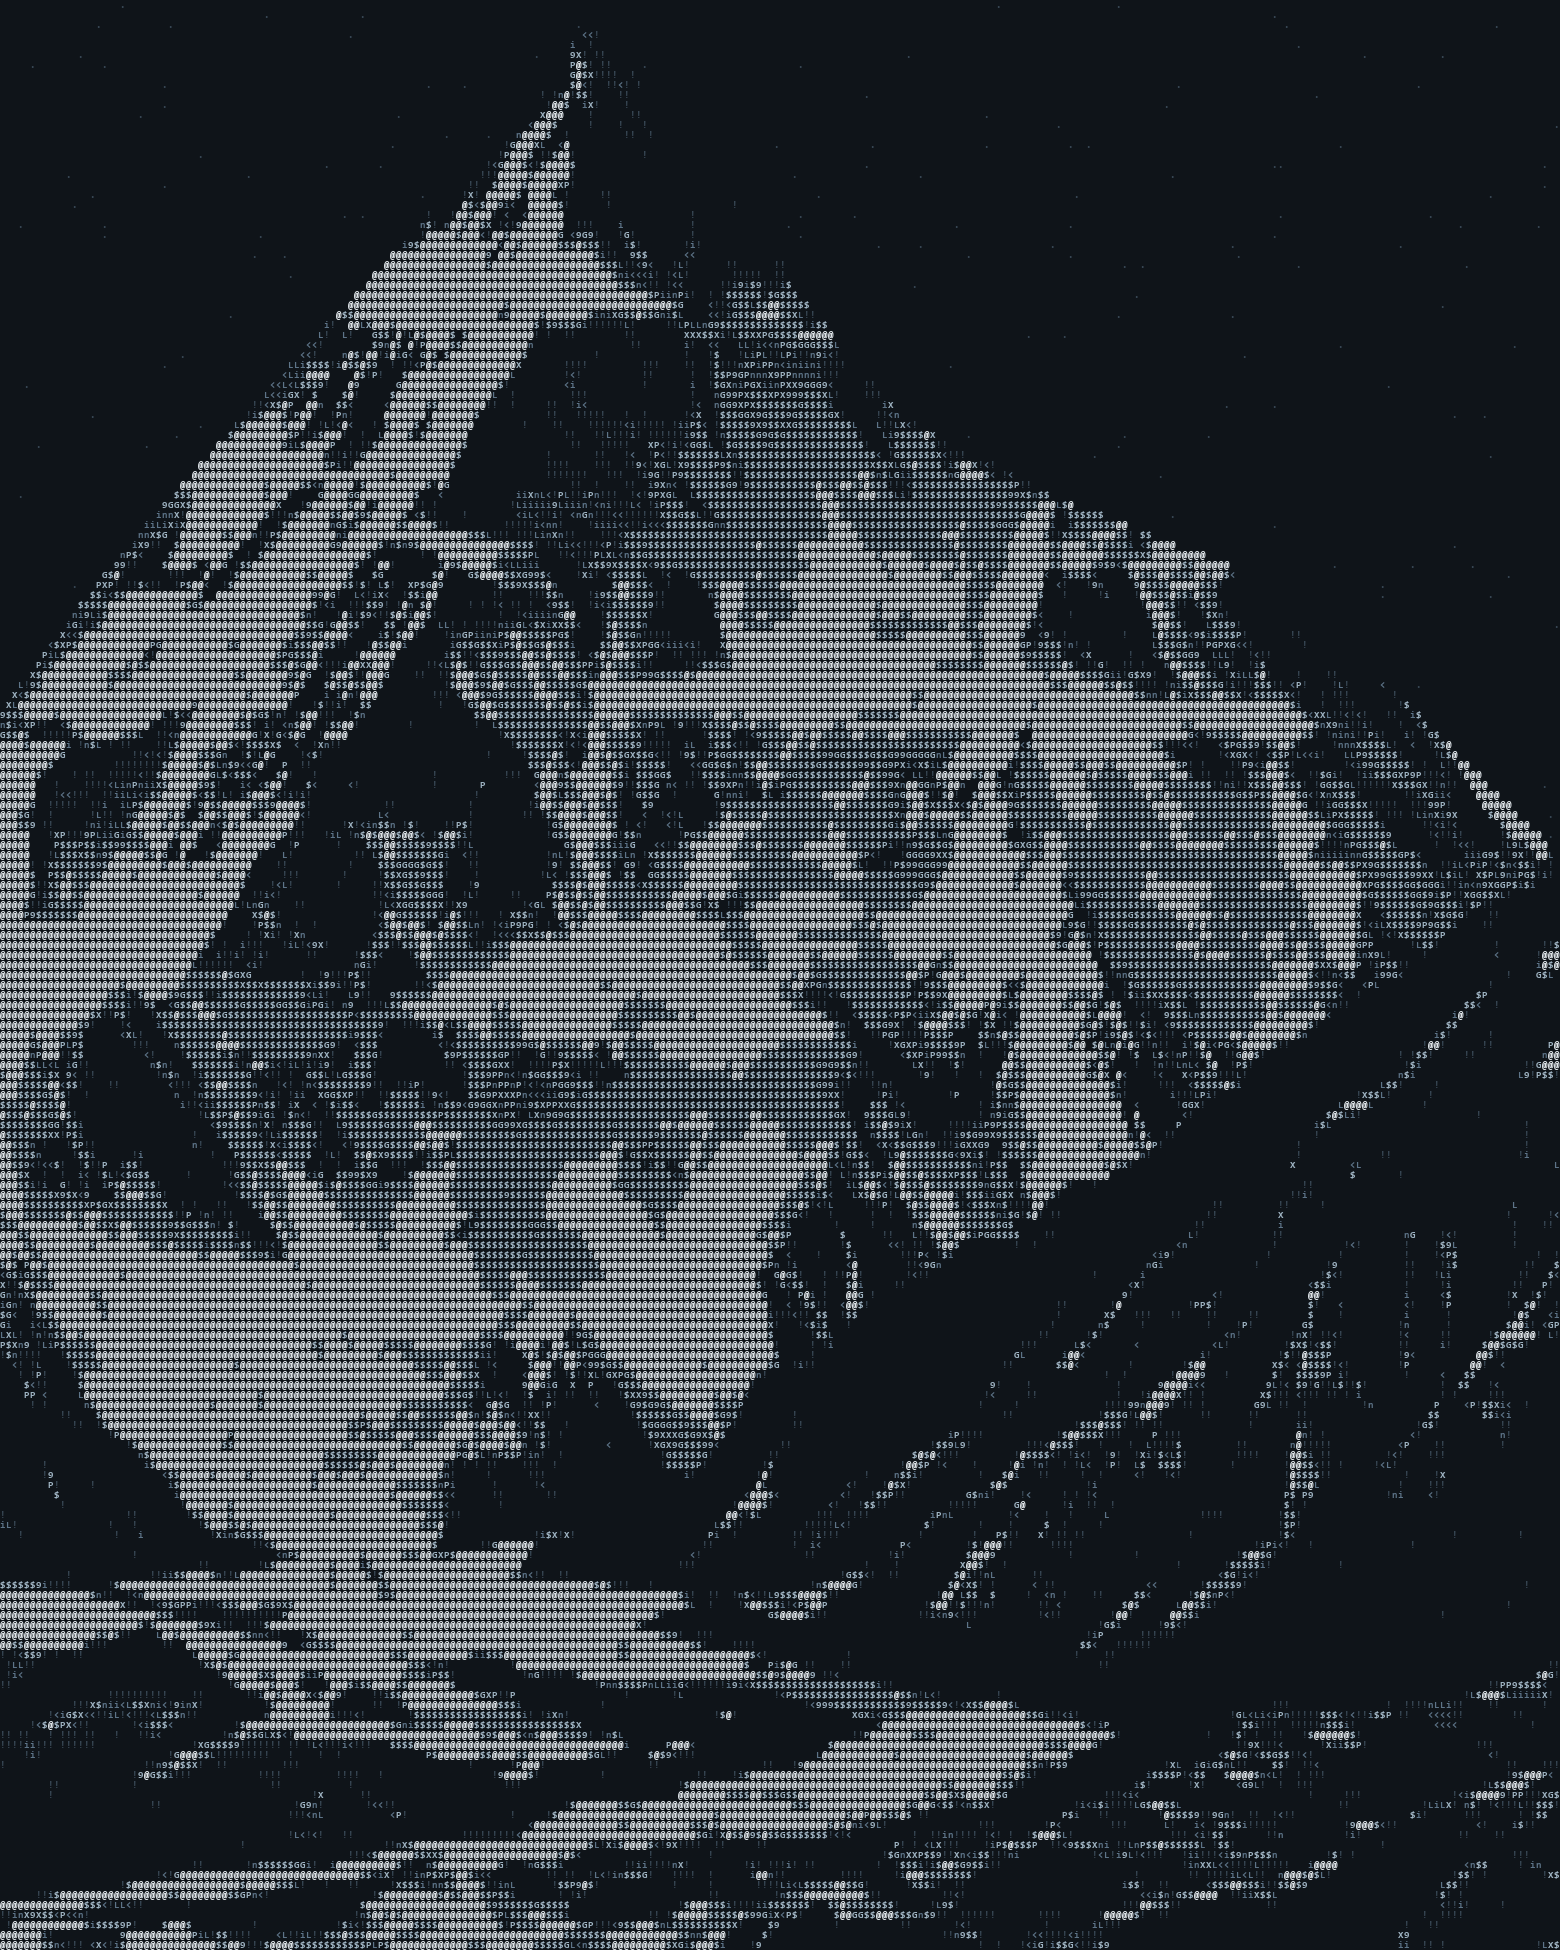
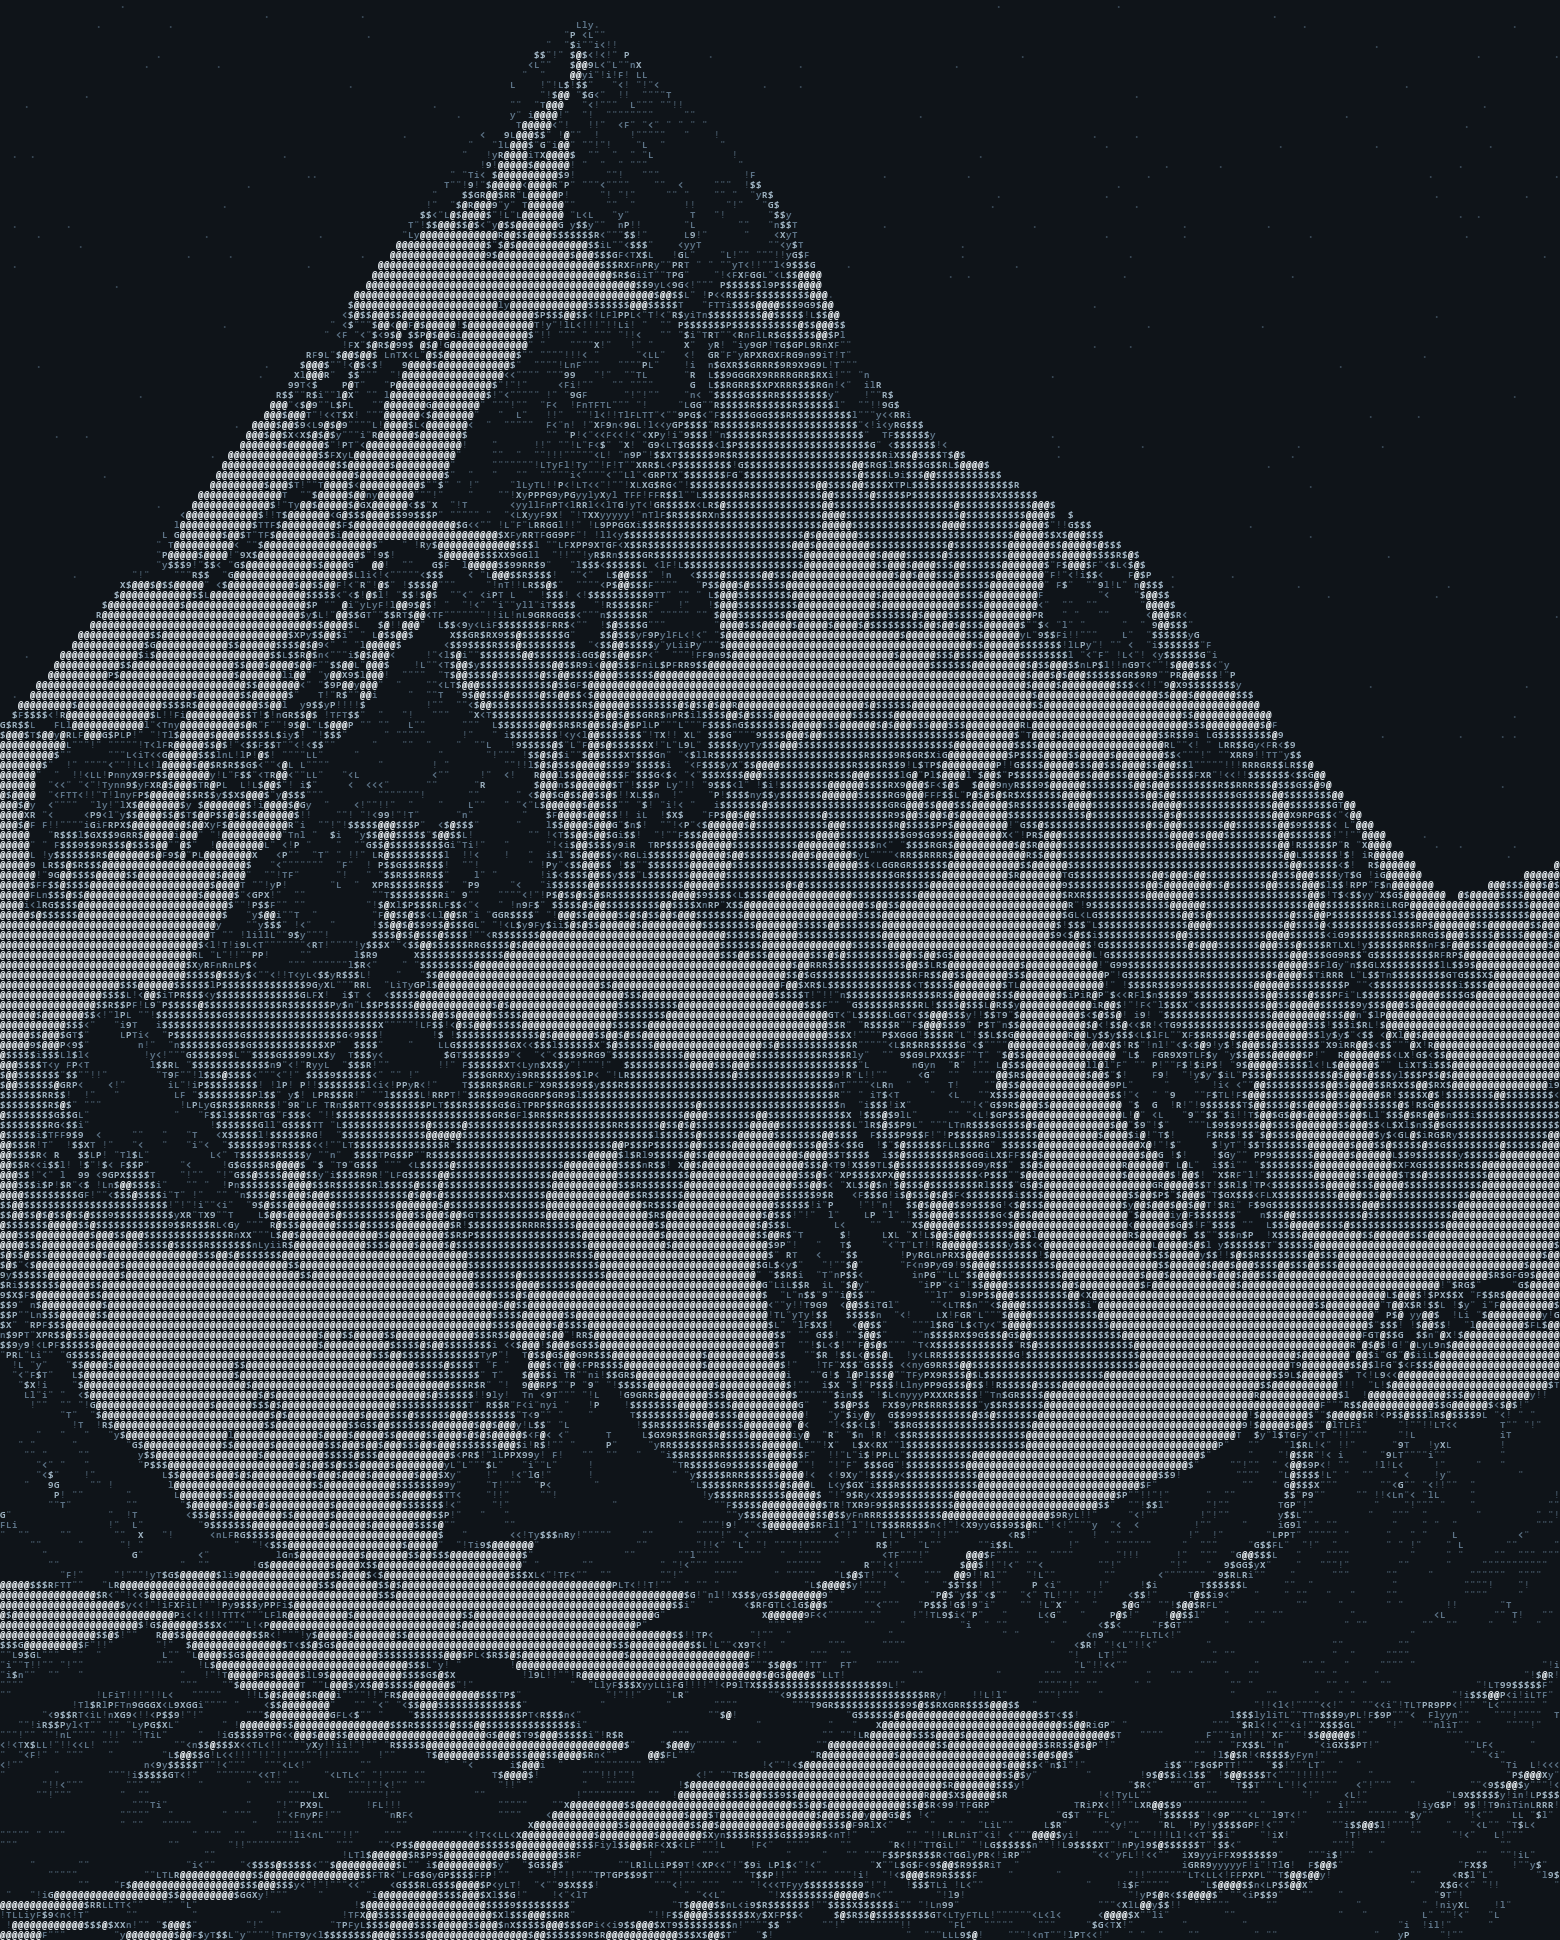
feat(profile): redraw K2 art without the foreground ridge, summit first in camps

diff --git a/.github/scripts/make_k2_ascii.py b/.github/scripts/make_k2_ascii.py
@@ -1,39 +1,29 @@
-"""One-off generator: shrinks the hand-made K2 ASCII art into a dark-theme version.
+"""One-off generator: turns the K2 drawing into a dark-theme ASCII picture.
 
-Reads the original (black ink on white, dense = dark), rebuilds its tone map, replaces the sky
-and clouds with a quiet starfield, inverts it for a dark background (dense = bright snow) and
-writes k2-ascii.txt and k2-ascii.png (the card embeds the PNG). Needs Pillow + numpy; the nightly card
-only reads the PNG.
-Usage: python make_k2_ascii.py montanha2_ascii.txt k2-ascii.txt k2-ascii.png
+Reads the drawing (dark ink on white), replaces the sky and clouds with a quiet starfield, inverts
+it for a dark background (dense character = bright snow) and writes k2-ascii.txt and k2-ascii.png.
+The card embeds the PNG. Needs Pillow + numpy; the nightly card only reads the PNG.
+Usage: python make_k2_ascii.py k2-source.jpg k2-ascii.txt k2-ascii.png
 """
 import sys
 
 import numpy as np
 from PIL import Image, ImageDraw
 
-COLS, ROWS = 260, 195
+COLS, ROWS = 260, 194
 FONT, SIZE = r"C:\Windows\Fonts\consolab.ttf", 10
-# Sky outline (x, y) on a 1040x1560 view of the source: everything above this line is replaced.
-SKY = [(1040, 0), (1040, 680), (940, 560), (820, 455), (700, 392), (600, 330), (530, 225), (515, 170),
-       (440, 80), (395, 22), (370, 40), (330, 110), (290, 160), (220, 250), (130, 370), (60, 470),
-       (0, 560), (0, 0)]
+SRC_W, SRC_H = 906, 1125
+# Sky outline (x, y) on the 906x1125 drawing: everything above this line is replaced.
+SKY = [(906, 0), (906, 500), (840, 520), (760, 440), (700, 370), (660, 320), (600, 285), (540, 250),
+       (500, 210), (460, 125), (420, 80), (340, 10), (310, 30), (260, 100), (230, 140), (190, 190),
+       (120, 280), (60, 350), (0, 420), (0, 0)]
 
 
 def load_tone(path):
-    """Ink darkness (0 light .. 1 dark) of each character of the source, as a rows x cols grid."""
-    from PIL import ImageFont
-    font = ImageFont.truetype(FONT, SIZE)
-    lines = open(path, encoding="utf-8").read().split(chr(10))
-    width = max(map(len, lines))
-    lines = [l.ljust(width) for l in lines]
-    cw = round(font.getlength("M"))
-    ink = {}
-    for c in set("".join(lines)):
-        im = Image.new("L", (cw, SIZE), 255)
-        ImageDraw.Draw(im).text((0, 0), c, font=font, fill=0)
-        ink[c] = 255 - np.asarray(im).mean()
-    a = np.array([[ink[c] for c in l] for l in lines])
-    return (a - a.min()) / (a.max() - a.min())
+    """Ink darkness (0 light .. 1 dark) of the drawing, as a grid at its native resolution."""
+    img = Image.open(path).convert("L")
+    assert img.size == (SRC_W, SRC_H), img.size
+    return 1 - np.asarray(img, dtype=np.float32) / 255.0
 
 
 def density_ramp(levels=18):
@@ -61,7 +51,7 @@ def shrink(grid):
 
 def sky_mask(h, w):
     img = Image.new("L", (w, h), 0)
-    ImageDraw.Draw(img).polygon([(x * w / 1040, y * h / 1560) for x, y in SKY], fill=255)
+    ImageDraw.Draw(img).polygon([(x * w / SRC_W, y * h / SRC_H) for x, y in SKY], fill=255)
     return shrink(np.asarray(img, dtype=np.float32) / 255.0) > 0.5
 
 

diff --git a/.github/scripts/render_climb_card.py b/.github/scripts/render_climb_card.py
@@ -19,15 +19,15 @@ SUMMIT_M = 8611
 INK, SNOW, ICE, ROCK, AMBER = "#0f1419", "#e8eef2", "#7fb6d4", "#2b3640", "#e0a458"
 MONO = "ui-monospace,SFMono-Regular,Menlo,Consolas,'DejaVu Sans Mono',monospace"
 
-# (altitude m, col, row) on the east face of k2-ascii.png (260 x 195 characters), glacier to summit.
+# (altitude m, col, row) on the east face of k2-ascii.png (260 x 194 characters), glacier to summit.
 ROUTE = [
-    (0, 176, 148), (5000, 186, 124), (6050, 196, 100), (6700, 188, 80),
-    (7400, 168, 64), (7700, 148, 52), (8200, 124, 32), (8611, 98, 4),
+    (0, 175, 150), (5000, 189, 133), (6050, 201, 114), (6700, 189, 94),
+    (7400, 172, 76), (7700, 169, 55), (8200, 138, 34), (8611, 97, 3),
 ]
 CAMPS = ["BC", "C1", "C2", "C3", "C4", "Bottleneck", "Summit"]    # names for ROUTE[1:], in order
 ART = os.path.join(os.path.dirname(os.path.abspath(__file__)), "..", "..", "k2-ascii.png")
 PANEL_X, PANEL_Y, PANEL_W, PANEL_H = 14, 14, 400, 500
-COLS, ROWS = 260, 195
+COLS, ROWS = 260, 194
 CELL_W, CELL_H = PANEL_W / COLS, PANEL_H / ROWS
 
 
@@ -123,8 +123,8 @@ def render(contributions, repos, joined):
         row(170, "Since", joined),
     ]
     camps = []
-    for n, (alt, _, _) in enumerate(ROUTE[1:]):
-        y = 252 + n * 20
+    for n, (alt, _, _) in reversed(list(enumerate(ROUTE[1:]))):    # summit on top, like the mountain
+        y = 252 + (len(CAMPS) - 1 - n) * 20
         mark = ("●", AMBER) if alt <= meters else ("○", "#5d7488")
         camps.append(f'<text x="458" y="{y}"><tspan fill="{mark[1]}">{mark[0]}</tspan>'
                      f'<tspan x="480" class="k">{n + 1}</tspan><tspan x="506">{escape(CAMPS[n])}</tspan>'
